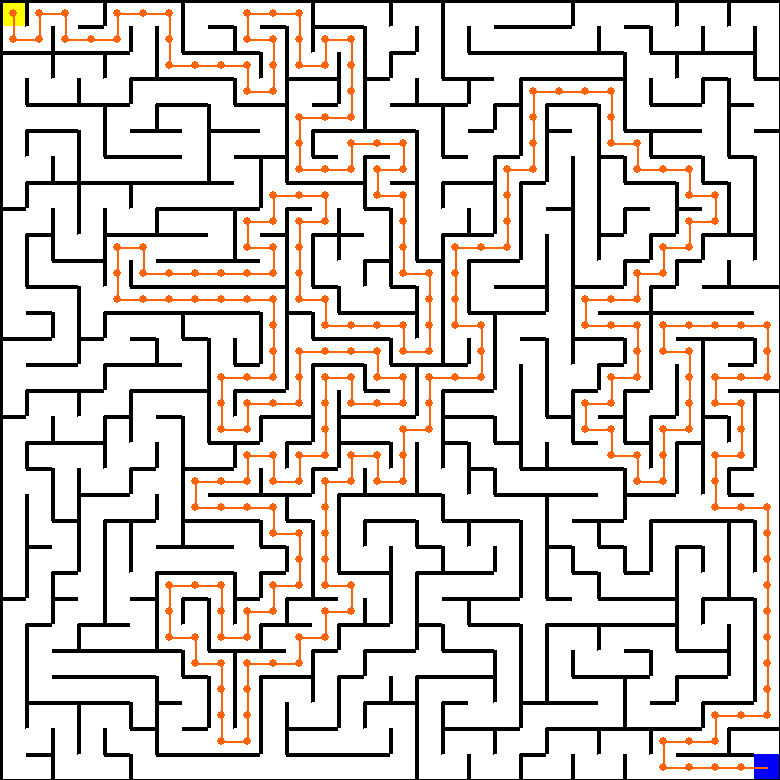
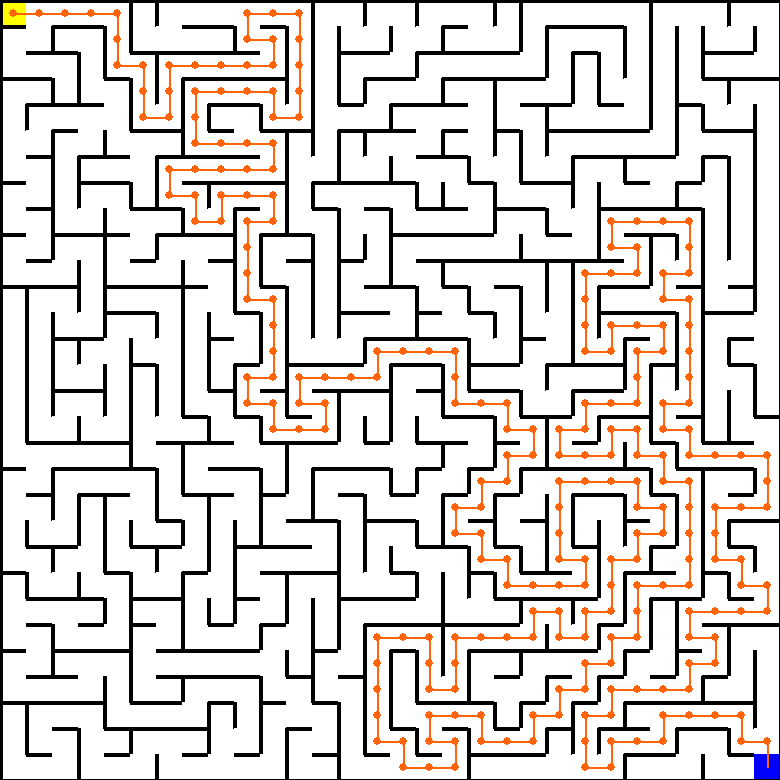
bam r de reset me cung nhe

diff --git a/main.py b/main.py
@@ -3,7 +3,16 @@ import sys
 from constants import *
 import classes
 from ui.setup import *
+def reset_maze():
+    # Khai báo biến toàn cục để có thể thay đổi giá trị từ hàm
+    global growingTree, start, show_path
 
+    # Tạo một đối tượng lưới mới
+    growingTree = classes.GrowingTree(classes.Grid(height, width, cell_size), "GREEN")
+
+    # Đặt lại trạng thái bắt đầu và hiển thị đường
+    start = False
+    show_path = True
 def get_user_input(screen):
     input_box_width = pygame.Rect(screen.get_width() // 2 - 70, screen.get_height() // 2 - 16, 140, 32)
     input_box_height = pygame.Rect(screen.get_width() // 2 - 70, screen.get_height() // 2 + 50, 140, 32)
@@ -149,6 +158,8 @@ if __name__ == "__main__":
             if event.type == pygame.QUIT:
                 run = False
             if event.type == pygame.KEYDOWN:
+                if event.key == pygame.K_r:  # Ví dụ: Sử dụng phím 'r' để reset mê cung
+                    reset_maze()
                 if event.key == pygame.K_ESCAPE:
                     run = False
                 if event.key == pygame.K_RETURN:
